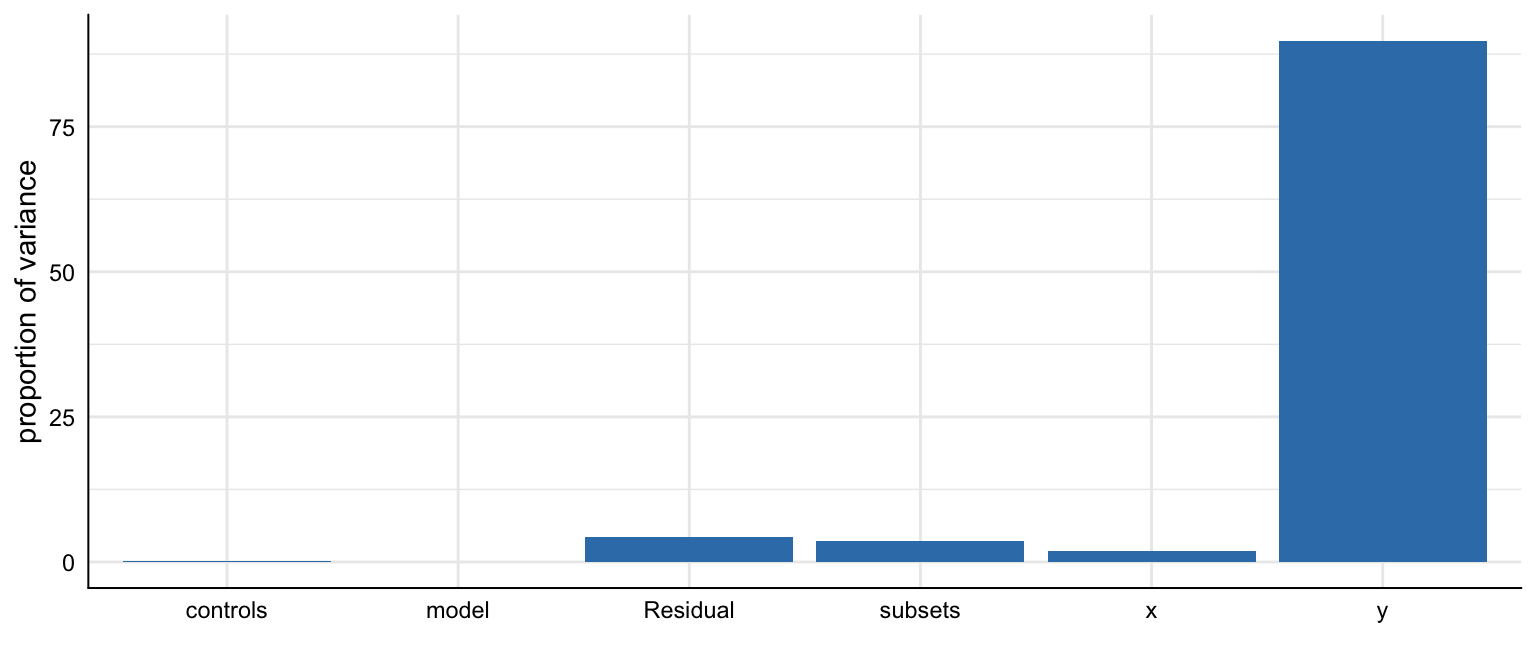
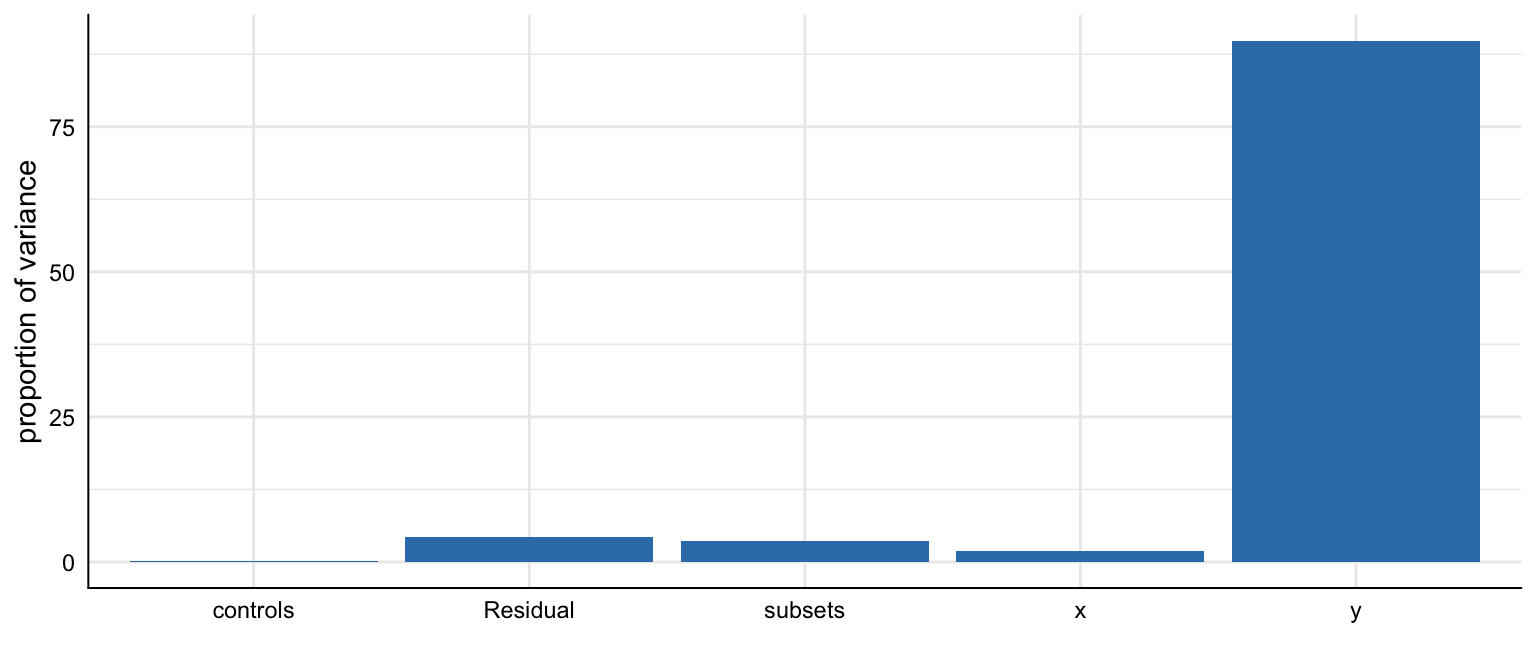
Update README and particular the variance decomposition example.

diff --git a/README.md b/README.md
@@ -114,14 +114,14 @@ summarise_specs(results)
 summarise_specs(results, 
                 stats = lst(median, min, max), 
                 group = c("x", "y"))
-#> # A tibble: 4 x 5
+#> # A tibble: 4 x 6
 #> # Groups:   x [2]
-#>   x     y     median    min   max
-#>   <chr> <chr>  <dbl>  <dbl> <dbl>
-#> 1 x1    y1     6.52   3.49   9.28
-#> 2 x1    y2     0.498 -2.05   3.67
-#> 3 x2    y1     7.80   5.89   9.58
-#> 4 x2    y2     1.29  -0.258  2.91
+#>   x     y     median    min   max   obs
+#>   <chr> <chr>  <dbl>  <dbl> <dbl> <dbl>
+#> 1 x1    y1     6.52   3.49   9.28   123
+#> 2 x1    y2     0.498 -2.05   3.67   123
+#> 3 x2    y1     7.80   5.89   9.58   123
+#> 4 x2    y2     1.29  -0.258  2.91   123
 ```
 
 We can then use the function `plot_specs()` to produce a typical
@@ -136,23 +136,29 @@ plot_specs(results)
 <img src="man/figures/README-unnamed-chunk-5-1.png" width="100%" />
 
 Furthermore, we can estimate how much variance in the specification
-curve is related to which analytical decisions. Therefore, we can use
-the function `variance_specs()` to calculate a respective table or
-`plot_variance()`to visualize the distribution.
+curve is related to which analytical decisions. Therefore, we have to
+estimate a basic multilevel model without predictors and the analytical
+decisions as random effects (interaction could be included too). We then
+use the function `icc_specs()` to calculate a respective table or
+`plot_variance()` to visualize the distribution.
 
 ``` r
-# Decompose variance of the specification curve
-variance_specs(results)
-#>        grp        vcov         icc    percent
-#> 1  subsets  0.79559770 0.036197590  3.6197590
-#> 2 controls  0.04954707 0.002254261  0.2254261
-#> 3    model  0.00000000 0.000000000  0.0000000
-#> 4        y 19.74075311 0.898152033 89.8152033
-#> 5        x  0.43091262 0.019605384  1.9605384
-#> 6 Residual  0.96248965 0.043790732  4.3790732
+# Estimate multilevel model 
+library(lme4)
+model <- lmer(estimate ~ 1 + (1|x)  + (1|y) + (1|controls) + (1|subsets), data = results)
+
+# Get intra-class correlation
+icc_specs(model) %>%
+  mutate_if(is.numeric, round, 2)
+#>        grp  vcov  icc percent
+#> 1  subsets  0.79 0.04    3.62
+#> 2 controls  0.05 0.00    0.23
+#> 3        y 19.74 0.90   89.83
+#> 4        x  0.43 0.02    1.95
+#> 5 Residual  0.96 0.04    4.38
 
 # Plot decomposition
-plot_variance(results)
+plot_variance(model)
 ```
 
 <img src="man/figures/README-unnamed-chunk-6-1.png" width="100%" />
